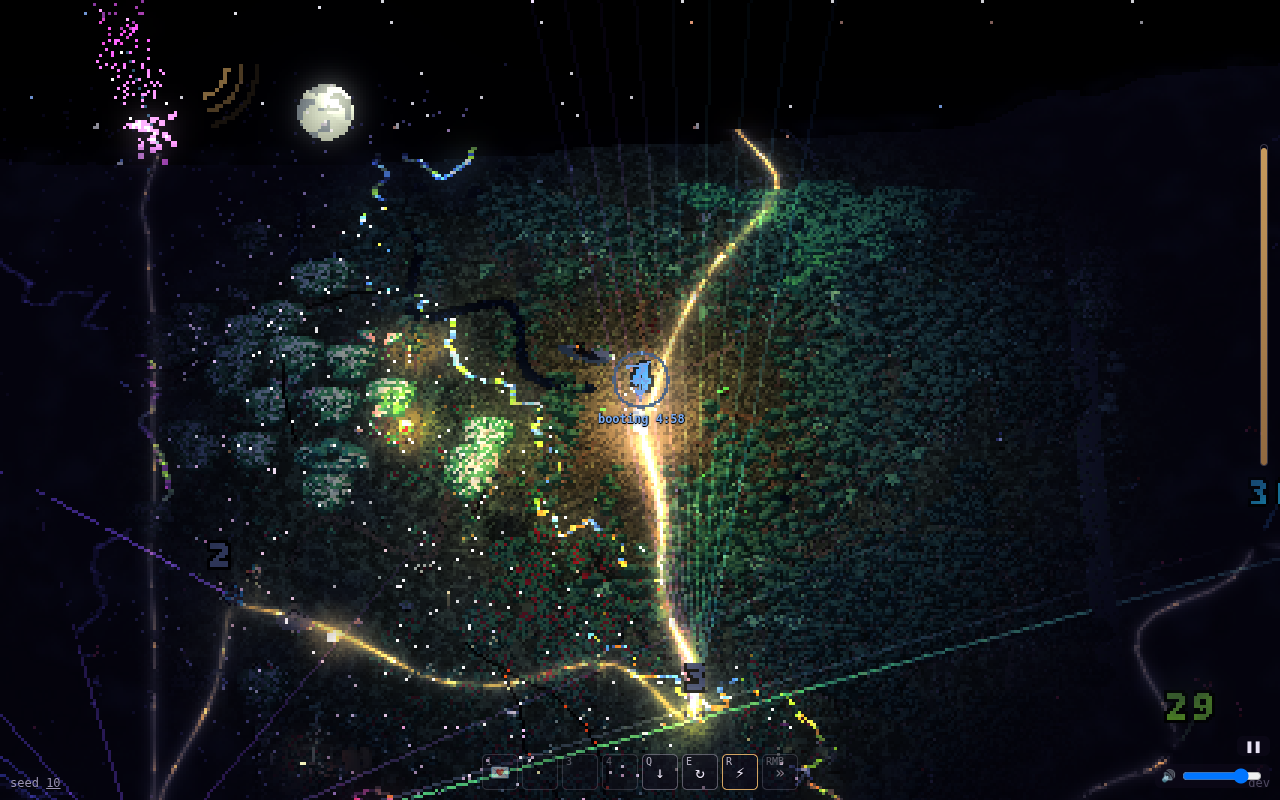
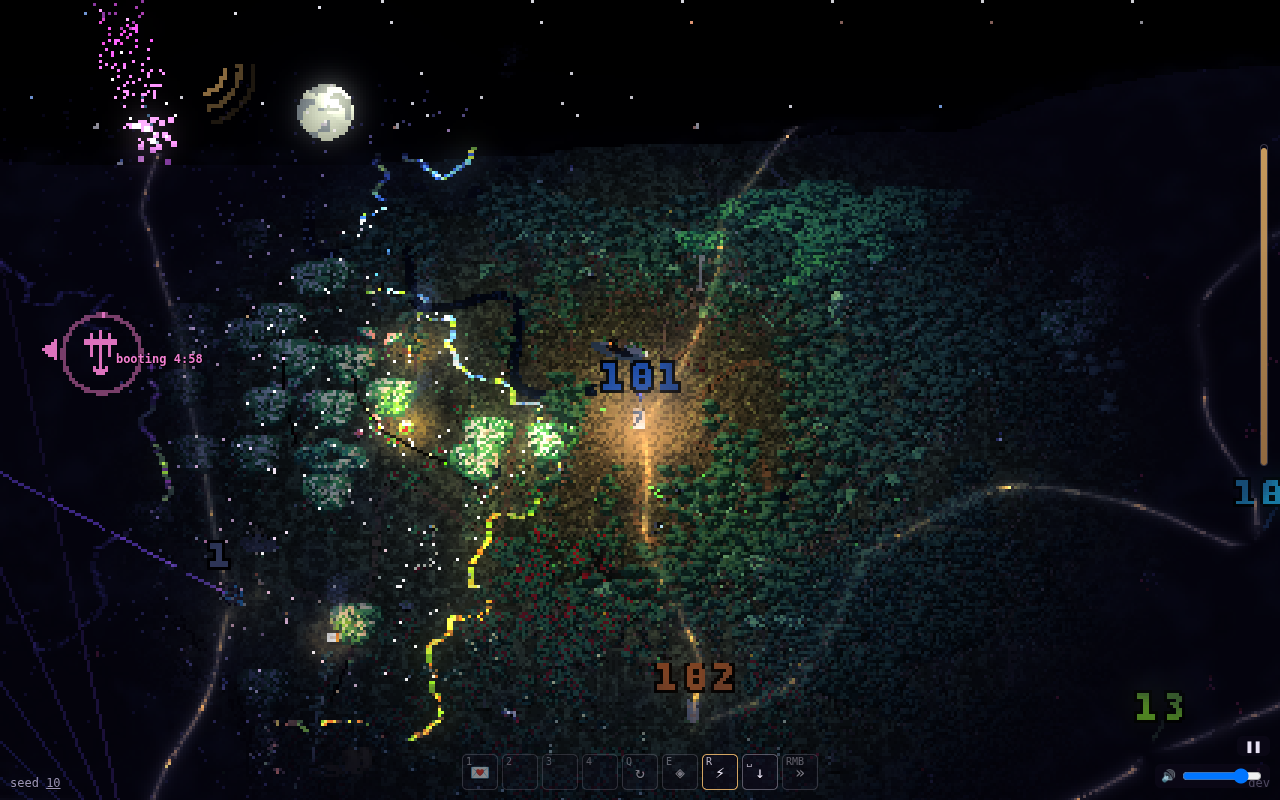
Ley line: the noisy order untangled, never crossing, every map its own
Ed, 2026-10-06: "I thought the idea was to have no crossings?" and "Long
spirals are okay, but ideally it shouldn't be just spirals".

The route picker now starts from the noisy picker's order (its lobes and
wanderings) instead of a spiral, and untangles it: 2-opt, single-stone
moves, then seeded nudges and again until nothing crosses. Over 300
seeds the whole route crosses itself on none; every map's route is its
own shape. Waves land about 240 m apart over the first 40 (617 m with
the noisy picker); about 4 of them wake an area not touching the party.
The spiral and party.route.spacing are gone.

Claude-Session: https://claude.ai/code/session_015GU5vW4WqTKKC9nQnJQBnv

diff --git a/src/rules/leyroute.ts b/src/rules/leyroute.ts
@@ -1,18 +1,18 @@
 // The ley line's route (Ed, 2026-10-06: "I think the leylines should cover the entire set of waves
-// the whole time, but ideally it shouldn't cross itself, or try and minimise crossings"; before it,
-// "Is it possible for the leylines to never have to cross? even if it means the route they describe
-// is much longer"). With the route picker (party.picker "route", the default) the waves wake the
+// the whole time, but ideally it shouldn't cross itself, or try and minimise crossings"; then "I
+// thought the idea was to have no crossings?", and "Long spirals are okay, but ideally it shouldn't
+// be just spirals"). With the route picker (party.picker "route", the default) the waves wake the
 // areas in one order worked out once per map, here, and the line runs through all of them, home
 // first: its first link the treehouse's departure curve (rules/departure.ts), the rest straight
-// from stone to stone. The order: a spiral out from the dancefloor (party.route.spacing times the
-// ring round home between its turns, starting at one of the ring's stones, due south first, where
-// the departure curve heads), then untangled: any two links that cross have the stones between them
-// reversed (2-opt), and a stone whose links still meet another's is moved to wherever its links
-// cross fewest; of the starts, the one that crosses least (none, on every seed tried: a strong
-// wish, not a rule). Seeded only by the map; no drawing here.
+// from stone to stone (drawn wandering a little, render/leylines.ts). The order starts as the noisy
+// picker's (its lobes and wanderings, so no two maps' routes look alike) and is untangled: any two
+// links that cross have the stones between them reversed (2-opt), and a stone whose links still
+// meet another's is moved to wherever they cross fewest; nudged and untangled again until none
+// cross. Seeded only by the map; no drawing here.
 import type { ForestMap } from "./map";
 import { departureRoute } from "./departure";
 import { polylinesMeet, segmentsMeet, type P2 } from "./crossing";
+import { rng } from "./random";
 
 export type { P2 };
 
@@ -27,24 +27,28 @@ export interface LeyRoute {
 
 const ROUTES = new WeakMap<ForestMap, LeyRoute>();
 
-/** The map's route, worked out once. */
-export function leyRoute(map: ForestMap): LeyRoute {
+/** The map's route, worked out once: from `initial`, the order the waves would wake the areas in
+ *  without it (the noisy picker's: its lobes and wanderings, so every map's differs), untangled;
+ *  if it still crosses itself, the order nudged a little (a few neighbouring stones swapped, seeded)
+ *  and untangled again, up to TRIES times, the least crossed kept (none, on every seed tried). */
+export function leyRoute(map: ForestMap, initial: () => string[]): LeyRoute {
   let r = ROUTES.get(map);
-  if (!r) ROUTES.set(map, (r = planRoute(map)));
+  if (!r) ROUTES.set(map, (r = planRoute(map, initial())));
   return r;
 }
 
-function planRoute(map: ForestMap): LeyRoute {
-  // The spiral may start at any of the stones round home (due south first, where the departure
-  // curve heads): the one whose route crosses itself least, untangled.
-  let best: LeyRoute | null = null, bestC = Infinity;
-  for (let start = 0; start < 12 && bestC > 0; start++) {
-    const r = planFrom(map, start);
-    if (!r) break;
-    const c = crossingsOf(r.links);
-    if (c < bestC) { best = r; bestC = c; }
+const TRIES = 30;
+
+function planRoute(map: ForestMap, order: string[]): LeyRoute {
+  let best = untangle(map, order) ?? { order: [], stones: [], links: [] }, bestC = crossingsOf(best.links);
+  const R = rng(map.seed * 4099 + 17);
+  for (let t = 1; t <= TRIES && bestC > 0; t++) {
+    const o = [...order];
+    for (let k = 0; k < 3 + t; k++) { const i = 1 + Math.floor(R() * (o.length - 2)); [o[i], o[i + 1]] = [o[i + 1], o[i]]; }
+    const r = untangle(map, o), c = r ? crossingsOf(r.links) : Infinity;
+    if (r && c < bestC) { best = r; bestC = c; }
   }
-  return best ?? { order: [], stones: [], links: [] };
+  return best;
 }
 
 const crossingsOf = (links: readonly (readonly P2[])[]) => {
@@ -53,27 +57,11 @@ const crossingsOf = (links: readonly (readonly P2[])[]) => {
   return c;
 };
 
-/** The route with the spiral starting at the `start`-th stone round home (by how far round from
- *  due south), or null if there's no such stone. */
-function planFrom(map: ForestMap, start: number): LeyRoute | null {
-  const home = `${map.centreCell[0]},${map.centreCell[1]}`, d = map.dancefloor;
-  // A turn's spacing: the ring of areas round home's (their stones' distance from the dancefloor, on average).
-  const ring = [...(map.neighbours.get(home) ?? [])].map(k => { const [x, y] = k.split(",").map(Number), q = map.soundsystemSpot(x, y); return Math.hypot(q.x - d.x, q.z - d.z); });
-  const w = Math.max(1, (ring.length ? ring.reduce((a, b) => a + b, 0) / ring.length : map.areaSize) * (map.tuning.party.route?.spacing ?? 1));
-  // The spiral: each stone's turn (its distance out, less how far round it is from due south, half a
-  // turn in, so the ring round home is the first) and how far round.
-  const all: { key: string; p: P2; s: number; round: number; r: number }[] = [];
-  for (let cy = 0; cy < map.n; cy++) for (let cx = 0; cx < map.n; cx++) {
-    const key = `${cx},${cy}`;
-    if (key === home) continue;
-    const q = map.soundsystemSpot(cx, cy), r = Math.hypot(q.x - d.x, q.z - d.z), round = (((Math.atan2(q.x - d.x, q.z - d.z) / (2 * Math.PI)) % 1) + 1) % 1;
-    all.push({ key, p: [q.x, q.z], s: 0, round, r });
-  }
-  const first = all.filter(a => Math.floor(a.r / w - a.round - 0.5) <= 0).sort((a, b) => a.round - b.round)[start];
-  if (!first) return null;
-  for (const a of all) { const round = (a.round - first.round + 1) % 1; a.s = Math.max(0, Math.floor(a.r / w - round - 0.5)) + round; }
-  all.sort((a, b) => a.s - b.s || (a.key < b.key ? -1 : 1));
-  const st = all.map(a => a.p), keys = all.map(a => a.key), n = st.length;
+/** A route through these areas in this order (home's not among them, the first kept first: the
+ *  departure curve leads to it), untangled: wherever two links cross, the stones between them
+ *  reversed (2-opt), then a stone at a crossing moved to wherever its links cross fewest. */
+export function untangle(map: ForestMap, order: readonly string[]): LeyRoute | null {
+  const keys = [...order], st = keys.map(k => { const [x, y] = k.split(",").map(Number), q = map.soundsystemSpot(x, y); return [q.x, q.z] as P2; }), n = st.length;
   if (!n) return null;
   const D = map.tuning.leyLines.depart, depart = departureRoute(map, { x: st[0][0], z: st[0][1] }, D.past, D.avoid, 4) as P2[];
   // (The first stone stays first: the departure curve leads to it.)

diff --git a/src/rules/leyroute.test.ts b/src/rules/leyroute.test.ts
@@ -5,8 +5,7 @@
 import { describe, expect, it } from "vitest";
 import { generateMap } from "./map";
 import { TUNING, type Tuning } from "./tuning";
-import { newParty, spreadWave, wavePlan, cellKey } from "./party";
-import { leyRoute } from "./leyroute";
+import { newParty, spreadWave, wavePlan, cellKey, routeOf } from "./party";
 import { polylinesMeet, segmentsMeet, crossings } from "./crossing";
 
 describe("lines meeting", () => {
@@ -25,7 +24,7 @@ describe("lines meeting", () => {
 describe("the ley line's route (Ed, 2026-10-06)", () => {
   const SEEDS = Array.from({ length: 30 }, (_, i) => i + 1);
   it("runs through every area once, home first, and the waves wake them in its order", () => {
-    const map = generateMap(7, TUNING), r = leyRoute(map), p = newParty(map);
+    const map = generateMap(7, TUNING), r = routeOf(map), p = newParty(map);
     expect(r.order.length).toBe(map.n * map.n - 1);
     expect(new Set(r.order).size).toBe(r.order.length);
     expect(r.order).not.toContain(cellKey(map.centreCell));
@@ -33,29 +32,33 @@ describe("the ley line's route (Ed, 2026-10-06)", () => {
     for (let w = 0; w < 5; w++) expect(spreadWave(p, map, (w + 1) * 300).map(a => cellKey(a.cell))).toEqual([r.order[w]]);
   });
   it("is the same for a seed every time", () => {
-    const a = leyRoute(generateMap(11, TUNING)), b = leyRoute(generateMap(11, TUNING));
+    const a = routeOf(generateMap(11, TUNING)), b = routeOf(generateMap(11, TUNING));
     expect(b.order).toEqual(a.order);
   });
-  it("doesn't cross itself: none on most of 30 seeds (a strong wish, not a rule: never more than once)", () => {
-    let clean = 0;
-    for (const seed of SEEDS) {
-      const c = crossings(leyRoute(generateMap(seed, TUNING)).links);
-      expect(c, `seed ${seed}`).toBeLessThanOrEqual(1);
-      if (c === 0) clean++;
-    }
-    expect(clean).toBeGreaterThanOrEqual(28);
+  it("never crosses itself, the whole route, on any of 30 seeds (Ed: \"I thought the idea was to have no crossings?\")", () => {
+    for (const seed of SEEDS) expect(crossings(routeOf(generateMap(seed, TUNING)).links), `seed ${seed}`).toBe(0);
   }, 120_000);
+  it("differs from map to map: not one shape (Ed: \"ideally it shouldn't be just spirals\")", () => {
+    // How far round the dancefloor the first ten stones go, and which way: the noisy picker's lobes, not one spiral.
+    const turns = SEEDS.slice(0, 12).map(seed => {
+      const map = generateMap(seed, TUNING), d = map.dancefloor, r = routeOf(map);
+      let turn = 0;
+      for (let i = 1; i < 10; i++) { const a = Math.atan2(r.stones[i - 1][0] - d.x, r.stones[i - 1][1] - d.z), b = Math.atan2(r.stones[i][0] - d.x, r.stones[i][1] - d.z); turn += Math.atan2(Math.sin(b - a), Math.cos(b - a)); }
+      return turn;
+    });
+    expect(turns.some(t => t > 0.5) && turns.some(t => t < -0.5)).toBe(true); // (some wind one way round home, some the other)
+  }, 60_000);
   it("(the noisy picker before it crossed itself thousands of times a run)", () => {
     const t = structuredClone(TUNING) as Tuning;
     t.party.picker = "noisy";
-    const map = generateMap(1, t), p = newParty(map), order = [...wavePlan(p, map).keys()], r = leyRoute(map);
+    const map = generateMap(1, t), p = newParty(map), order = [...wavePlan(p, map).keys()], r = routeOf(map);
     const st = order.map(k => r.stones[r.order.indexOf(k)]), links = [r.links[0]];
     for (let i = 1; i < st.length; i++) links.push([st[i - 1], st[i]]);
     expect(crossings(links)).toBeGreaterThan(1000);
   }, 60_000);
   it("starts about the ring round home, and keeps the waves near each other", () => {
     for (const seed of SEEDS.slice(0, 10)) {
-      const map = generateMap(seed, TUNING), r = leyRoute(map), d = map.dancefloor, far = (q: readonly number[]) => Math.hypot(q[0] - d.x, q[1] - d.z);
+      const map = generateMap(seed, TUNING), r = routeOf(map), d = map.dancefloor, far = (q: readonly number[]) => Math.hypot(q[0] - d.x, q[1] - d.z);
       const ring = Math.max(...[...(map.neighbours.get(cellKey(map.centreCell)) ?? [])].map(k => far(r.stones[r.order.indexOf(k)])));
       expect(far(r.stones[0]), `seed ${seed}`).toBeLessThan(ring * 1.3);
       const steps = r.stones.slice(1, 40).map((q, i) => Math.hypot(q[0] - r.stones[i][0], q[1] - r.stones[i][1]));

diff --git a/src/rules/party.ts b/src/rules/party.ts
@@ -6,7 +6,7 @@ import type { Tuning } from "./tuning";
 import { hash2, rng, vnoise } from "./random";
 import type { ForestMap } from "./map";
 import type { Cell } from "./partition";
-import { leyRoute } from "./leyroute";
+import { leyRoute, type LeyRoute } from "./leyroute";
 
 export interface Soundsystem { x: number; z: number; variant: number }
 
@@ -84,8 +84,8 @@ export type Picker = "route" | "noisy" | "near3" | "near3touch" | "nearest";
 
 /** Choose the area the next wave wakes, by the tuning's picker (?picker= in the URL):
  *  - route (default; Ed, 2026-10-06: the ley line "should cover the entire set of waves the whole
- *    time, but ideally it shouldn't cross itself"): the next area in the map's planned order
- *    (rules/leyroute.ts) the party hasn't, or whose soundsystem fell;
+ *    time" and have "no crossings"): the next area in the map's planned order the party hasn't
+ *    (routeOf: the noisy picker's order, untangled, rules/leyroute.ts);
  *  - noisy: of the dormant areas bordering the party (no islands), the `candidates`
  *    cheapest by distance to the dancefloor times a smooth seeded wobble (lobes, not a disc),
  *    not beside the last pick if there's another, one at random;
@@ -94,7 +94,7 @@ export type Picker = "route" | "noisy" | "near3" | "near3touch" | "nearest";
  *  - nearest: the nearest dormant area bordering the party. */
 export function pickNext(p: PartyState, map: ForestMap, picker: Picker = map.tuning.party.picker as Picker, candidates?: Cell[], salt = 0, border?: Set<string>): Cell | null {
   if (picker === "route") {
-    for (const key of leyRoute(map).order) if (!p.areas.has(key) && !p.ruined?.has(key)) { const c = key.split(",").map(Number) as unknown as Cell; candidates?.push(c); return c; }
+    for (const key of routeOf(map).order) if (!p.areas.has(key) && !p.ruined?.has(key)) { const c = key.split(",").map(Number) as unknown as Cell; candidates?.push(c); return c; }
     return null;
   }
   const N = map.tuning.party.noisy, r = rng(map.seed * 131 + p.wave * 7919 + 3 + salt * 104729);
@@ -285,4 +285,13 @@ export function symbolCount(stage: SpawnMarker["stage"], gone: number, flicker: 
   if (stage === "afterNext") return Math.round(F.afterNext[0] + (F.afterNext[1] - F.afterNext[0]) * Math.max(0, Math.min(1, gone)));
   if (stage === "probable") return 1 + Math.min(F.probableMax - 1, Math.floor(Math.max(0, Math.min(0.999, flicker)) * F.probableMax));
   return 0;
+}
+
+/** The ley line's route for this map (rules/leyroute.ts): the order the noisy picker would wake the
+ *  areas in, untangled so the line through them all never crosses itself. Worked out once a map. */
+export function routeOf(map: ForestMap): LeyRoute {
+  return leyRoute(map, () => {
+    const m: ForestMap = { ...map, tuning: { ...map.tuning, party: { ...map.tuning.party, picker: "noisy" } } };
+    return [...wavePlan(newParty(m), m).keys()];
+  });
 }

diff --git a/src/rules/tuning.ts b/src/rules/tuning.ts
@@ -186,7 +186,7 @@ export interface Tuning {
   stringLights: { on: boolean; runsPerArea: number[]; spansPerRun: number[]; coneAngle: number; junctionChance: number; spanMin: number; spanMax: number; spread: number; height: number; sag: number; bulbSpacing: number; palette: string[]; areaNeon: boolean; twinkle: number; chaseSpeed: number };
   party: {
     motes: { perPatch: number; from: number; to: number; speed: number };
-    uplight: { strength: number; pulse: number; edge: number }; interval: number; /** seconds a destroyed soundsystem takes off the next wave's countdown (Ed, 2026-10-05) */ lossPenalty: number; startDelay: number; maxPerWave: number; /** areas each wave wakes: one per witch present (1 until multiplayer) */ areasPerWave: number; picker: string; /** The route picker (Ed, 2026-10-06; rules/leyroute.ts): areas between the spiral's turns. */ route: { spacing: number }; noisy: { wobble: number; lobeSize: number; candidates: number; spreadFromLast: boolean }; transition: number; lightReach: number; lightStrength: number };
+    uplight: { strength: number; pulse: number; edge: number }; interval: number; /** seconds a destroyed soundsystem takes off the next wave's countdown (Ed, 2026-10-05) */ lossPenalty: number; startDelay: number; maxPerWave: number; /** areas each wave wakes: one per witch present (1 until multiplayer) */ areasPerWave: number; picker: string; noisy: { wobble: number; lobeSize: number; candidates: number; spreadFromLast: boolean }; transition: number; lightReach: number; lightStrength: number };
   dancefloor: {
     motes: { count: number; rise: number; speed: number; column: number };
     radius: number; clearing: number;

diff --git a/DESIGN.md b/DESIGN.md
@@ -100,7 +100,7 @@ The trade is speed against information: treetop mode covers distance, ground mod
 - **The treehouse stands due north of the dancefloor, just outside its ring of speakers** (Ed, 2026-10-05: "The treehouse should be 5m due north of the dance floor, outside the speaker ring"): its footprint's nearest edge 5 m (`treehouse.gap`) beyond the ring, always facing south, to the floor and the camera; home's circle reaches out past it.
 - **The first ley line leaves from the front of the treehouse and runs straight south across the dancefloor** (Ed, 2026-10-05: "The start of the first leyline should go from the front of the treehouse"; "The ley line leads from it south across the dancefloor and then towards the first speaker"): due south from the treehouse's front, through the ring of speakers and over the floor, a little way past the ring (`leyLines.depart.past`), then curving smoothly to the first objective's soundsystem, that stretch kept outside the ring. Later lines are unchanged.
 - **The ley line is six sections long: the next three runestones and the past three** (superseded 2026-10-06: the whole route, below) (Ed, 2026-10-05: "the leylines work well - let's try six sections long, showing the next three and the past three runestones"): from the last runestone reached it runs on through the next three objectives in wave order, each section fainter, and back through the three stones reached before it, dimmer, so the way ahead and the way come both read; further out it isn't drawn. Reaching the next stone draws a new section out ahead and lets the oldest go behind. **Only the next runestone has a HUD indicator** (Ed: "We only need the UI indicator for the next one, not the next two").
-- **The ley line covers every wave, the whole time, and doesn't cross itself** (Ed, 2026-10-06: "I think the leylines should cover the entire set of waves the whole time, but ideally it shouldn't cross itself, or try and minimise crossings"; it supersedes the six sections above and, earlier that day, "Is it possible for the leylines to never have to cross? even if it means the route they describe is much longer"): the line runs through every area's runestone from home to the last, all the time, brightest on from the last stone reached and fading ahead and behind to a faint floor (`leyLines.far`). The waves wake the areas in one order planned per map so the line never crosses itself (`party.picker` "route", `src/rules/leyroute.ts`): a spiral out from the dancefloor, a turn per ring of areas, untangled. Over 300 seeds it crosses itself on none (the noisy picker before it, `?picker=noisy`, crossed itself thousands of times a run). The party grows round home ring by ring rather than in lobes, and the waves land nearer each other: about 180 m apart over the first 40 waves, from about 620 m; a wave now and then (about one in the first 40) wakes an area not touching the party.
+- **The ley line covers every wave, the whole time, and never crosses itself** (Ed, 2026-10-06: "I think the leylines should cover the entire set of waves the whole time, but ideally it shouldn't cross itself, or try and minimise crossings"; then "I thought the idea was to have no crossings?", "the leylines don't have to be straight lines" and "Long spirals are okay, but ideally it shouldn't be just spirals"; it supersedes the six sections above): the line runs through every area's runestone from home to the last, all the time, brightest on from the last stone reached and fading ahead and behind to a faint floor (`leyLines.far`). The waves wake the areas in one order planned per map (`party.picker` "route", `src/rules/leyroute.ts`): the noisy picker's order (its lobes and wanderings, so every map's route differs), untangled until the line through it all crosses nowhere. Over 300 seeds: no crossings on any (the noisy picker, `?picker=noisy`, crossed itself about 3,600 times a run). The waves land nearer each other (about 240 m apart over the first 40 waves, from about 620 m; the first as before), and now and then (about 4 in the first 40) one wakes an area not touching the party.
 - Area shapes: Ed is inspired by Boris the Brave's *fractal jittered Voronoi partitions* (https://www.boristhebrave.com/2026/08/29/fractal-jittered-voronoi-partitions/).
   - **The method** (from the article, which Ed pasted, 2026-10-03): start with a grid and pick a random point, a *site*, in each square (layer 0: one site per area). Make a grid of half the size and pick layer-1 sites; each site's *parent* is the nearest site one layer up. Repeat for a few layers. A point belongs to the area of the root you reach by following parents up from its nearest deepest-layer site. Borders come out fractal, like coastlines.
   - **Why it suits Witch**: each point is computed on its own from a seed (no diagram to build, any map size), so a map is repeatable from its seed; layer-0 sites are natural **area centres**, where the **clearings** (and perhaps the soundsystems) go; the number of layers sets how wiggly borders are.

diff --git a/CLAUDE.md b/CLAUDE.md
@@ -127,7 +127,7 @@ Literal, stable names for the parts of the game, as Ed and the builders agree th
 - **Path network**: the paths, roads, railways and streams (`src/rules/paths.ts`, on the map as `map.paths`): seeded spline lines with tree-free corridors and bushes thick along their edges, drawn as ground ribbons with the art's strips (`src/render/paths.ts`). A path's kind follows the area it crosses; broken railway lets trees grow between the sleepers.
 - **Decor**: ruins, rocks and freak trees (`art/decor.js`) scattered sparsely as scenery (`Forest.decorNear`), never on a path, in an area's central clearing or by the dancefloor.
 - **Rolling ground**: the hills everything stands on (`src/render/height.ts`): one height h(x, z) from noise, levelled across paths and into plateaus under the dancefloor, treehouse, soundsystems, set pieces, grounds and ponds; kept in a half-float texture round the witch that the shaders read and `groundHeight` reads the same way. Drawing only: the rules stay flat (`ground.hills`, `?hills=`). Never steeper than the camera's shallowest pitch can see over (Ed, v289): the hills are made broad enough (`SLOPE_SCALE`).
-- **Ley lines**: the glowing line through the runestones in wave order (`src/rules/leylines.ts` the chain, `src/rules/leyroute.ts` the route, `src/render/leylines.ts` the drawing): through every area's stone from home to the last, the whole time (Ed, 2026-10-06: "I think the leylines should cover the entire set of waves the whole time, but ideally it shouldn't cross itself"), brightest on from the last runestone reached (by its wave, or its quest: `onAreaDone(party, cell, time)`), each section ahead fainter (`fade`) and the ones behind dimmer (`behindBright`), none fainter than `leyLines.far`; wandering along the valleys, a shimmer flowing toward the later stone, on the ground in both modes. The waves follow the route picker's planned order (`party.picker` "route": a spiral out from home, untangled, so the line doesn't cross itself; `?picker=noisy` for the picker before it; `node tools/balance/leycross.mjs` measures crossings). Only the next stone has a HUD indicator (Ed, 2026-10-05: "We only need the UI indicator for the next one, not the next two"). `?ley=0` hides them.
+- **Ley lines**: the glowing line through the runestones in wave order (`src/rules/leylines.ts` the chain, `src/rules/leyroute.ts` the route, `src/render/leylines.ts` the drawing): through every area's stone from home to the last, the whole time (Ed, 2026-10-06: "I think the leylines should cover the entire set of waves the whole time, but ideally it shouldn't cross itself"), brightest on from the last runestone reached (by its wave, or its quest: `onAreaDone(party, cell, time)`), each section ahead fainter (`fade`) and the ones behind dimmer (`behindBright`), none fainter than `leyLines.far`; wandering along the valleys, a shimmer flowing toward the later stone, on the ground in both modes. The waves follow the route picker's planned order (`party.picker` "route": the noisy picker's order, untangled so the line never crosses itself; `?picker=noisy` for the picker before it; `node tools/balance/leycross.mjs` measures crossings). Only the next stone has a HUD indicator (Ed, 2026-10-05: "We only need the UI indicator for the next one, not the next two"). `?ley=0` hides them.
 - **Ride**: the smoothed height she and the camera fly over the rolling ground (`src/render/ride.ts`): the ground averaged along her flight behind and ahead, eased, never letting her feet into the ground (`witch.heightSmooth`, `heightLookAhead`, `heightClearance`). Drawing only.
 - **Bend**: the world curving away toward the top of the screen in treetop mode, every vertex ahead of the camera's focus dropped by curve × d² (`camera.curve`, `?curve=`), so the night sky shows over the forest.
 - **Music style**: `config/music-style.json`, the music as data, like the art's style file: tempo (it sets `beat.bpm`), swing, key and scales, chord progressions, synth patches, parts with their patterns, sections and the arc; every sound synthesised (`src/platform/audio/musicEngine.ts`), every tune generated from the run's seed (`src/rules/musicScore.ts`).

diff --git a/config/KNOBS.md b/config/KNOBS.md
@@ -1115,7 +1115,7 @@ At the start the home speaker ring boots up (Ed, 2026-10-04): its speakers power
 
 ## `party`
 
-lossPenalty (Ed, 2026-10-05): a soundsystem destroyed brings the next wave that many seconds sooner (at once if less is left), each loss stacking; the gap after it is the interval as ever. motes: sparse glowing motes over every partified area, perPatch per 20 x 20 m, rising from from to to metres (under the crowns to above them) at about speed m/s. uplight: crowns in partified areas catch a faint glow from below in the area's colour (strength at its brightest, pulse on the beat, fading over edge metres toward the border). The party spreads: a wave every interval seconds (the first after startDelay more), partifying every area touching a partified one; maxPerWave caps a wave (0: no cap). picker: how the next area to wake is chosen: route (Ed, 2026-10-06: "I think the leylines should cover the entire set of waves the whole time, but ideally it shouldn't cross itself, or try and minimise crossings"; rules/leyroute.ts) wakes them in one order worked out per map so the ley line through them all never crosses itself (as far as it can): a spiral out from the dancefloor, route.spacing areas between its turns, untangled; noisy (?picker=noisy, the picker before it), near3, near3touch and nearest choose among the areas bordering the party as below. transition: seconds an area takes to partify, 0 to skip the show. partyLight: the coloured light at each soundsystem (reach in metres, strength).
+lossPenalty (Ed, 2026-10-05): a soundsystem destroyed brings the next wave that many seconds sooner (at once if less is left), each loss stacking; the gap after it is the interval as ever. motes: sparse glowing motes over every partified area, perPatch per 20 x 20 m, rising from from to to metres (under the crowns to above them) at about speed m/s. uplight: crowns in partified areas catch a faint glow from below in the area's colour (strength at its brightest, pulse on the beat, fading over edge metres toward the border). The party spreads: a wave every interval seconds (the first after startDelay more), partifying every area touching a partified one; maxPerWave caps a wave (0: no cap). picker: how the next area to wake is chosen: route (Ed, 2026-10-06: "I think the leylines should cover the entire set of waves the whole time, but ideally it shouldn't cross itself"; "I thought the idea was to have no crossings?"; "Long spirals are okay, but ideally it shouldn't be just spirals"; rules/leyroute.ts) wakes them in one order worked out per map so the ley line through them all never crosses itself: the noisy picker's order, untangled; noisy (?picker=noisy, the picker before it), near3, near3touch and nearest choose among the areas bordering the party as below. transition: seconds an area takes to partify, 0 to skip the show. partyLight: the coloured light at each soundsystem (reach in metres, strength).
 
 | knob | type | range |
 |---|---|---|
@@ -1132,7 +1132,6 @@ lossPenalty (Ed, 2026-10-05): a soundsystem destroyed brings the next wave that 
 | `party.areasPerWave` | number | 0 to … |
 | `party.maxPerWave` | number | 0 to … |
 | `party.picker` | string |  |
-| `party.route.spacing` | number | 0 to … |
 | `party.noisy.wobble` | number | 0 to … |
 | `party.noisy.lobeSize` | number | 0 to … |
 | `party.noisy.candidates` | number | 0 to … |

diff --git a/previews/leylines-uncrossed/README.md b/previews/leylines-uncrossed/README.md
@@ -1,6 +1,7 @@
-# The ley line: the whole route, not crossing itself (Ed, 2026-10-06)
+# The ley line: the whole route, never crossing itself (Ed, 2026-10-06)
 
-"I think the leylines should cover the entire set of waves the whole time, but ideally it shouldn't cross itself, or try and minimise crossings."
+"I think the leylines should cover the entire set of waves the whole time, but ideally it shouldn't cross itself"; "I thought the idea was to have no crossings?"; "Long spirals are okay, but ideally it shouldn't be just spirals".
 
-- `diagram.png`: top-down, the whole route through every area in wave order for seeds 10 and 40, from home (yellow) and the first waves (blue, thicker) to the last (pink). Left, the noisy picker as it was (`?picker=noisy`): 3533 and 3243 crossings. Right, the route picker: a spiral out from home, untangled, with no crossings.
-- `seed10-wave3-before.png`, `seed10-wave3-after.png`: in the game, seed 10 three waves in, from the treetops over the last stone reached (the camera raised to 520 m and the line brightened about threefold for the picture; tilt-shift off). Before, the whole line through the old order is a web of crossings over the forest; after, the route's sections run round the stones without meeting.
+- `routes-before.png`: top-down, the whole route through every area in wave order for seeds 1 to 4 with the noisy picker as it was (`?picker=noisy`), home the yellow dot, the line from blue (first waves, thicker) to pink (last): 4468, 3928, 3361 and 3669 crossings.
+- `routes-after.png`: the same for seeds 1 to 8 with the route picker (the noisy order, untangled): no crossings on any, and every map's shape its own (lobes, sweeps, meanders, winding either way round home).
+- `seed10-wave3-before.png`, `seed10-wave3-after.png`: in the game, seed 10 three waves in, from the treetops over the last stone reached (the camera raised to 520 m and the line brightened about threefold for the picture; tilt-shift off). Before, the whole line through the old order is a web of crossings; after, the route's sections run between the stones without meeting.
